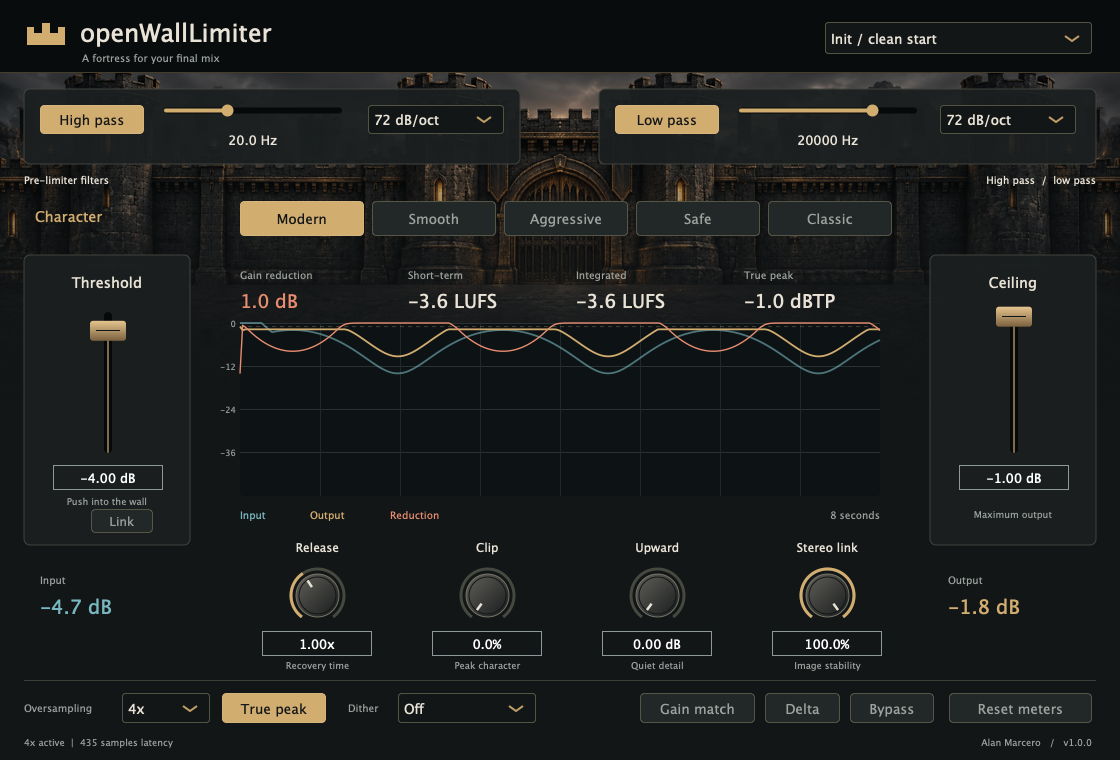
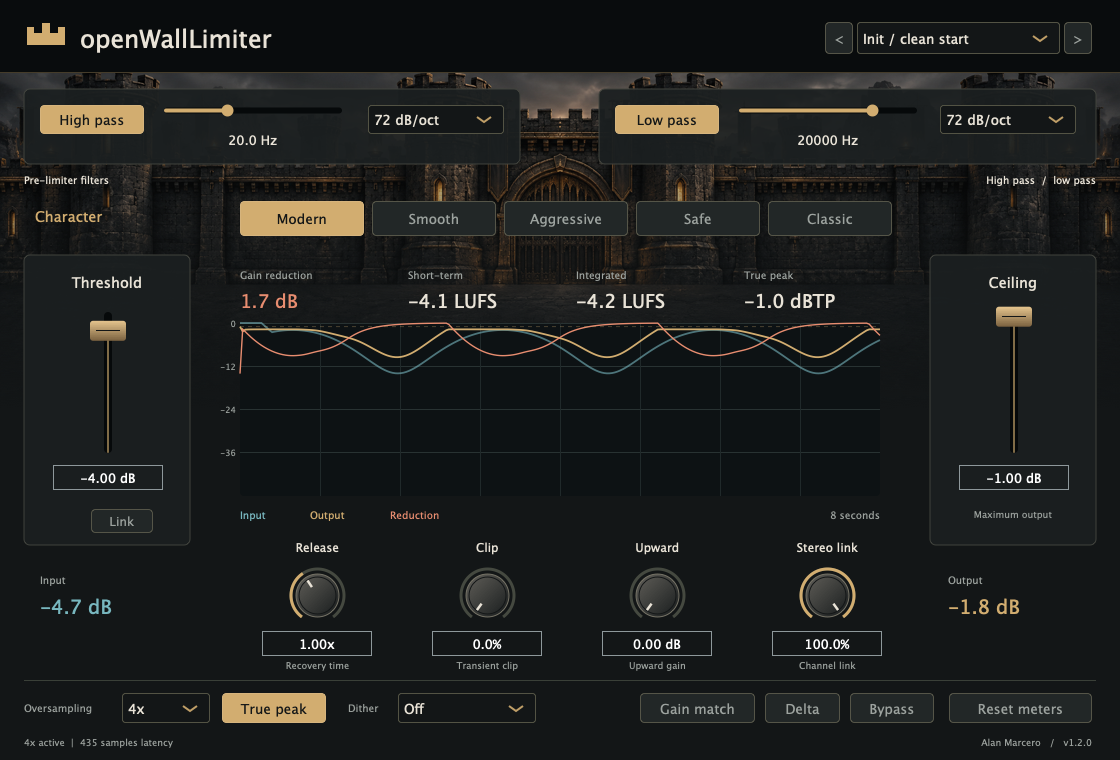
Improve limiter transient release curvature, add True Peak clip LED and header subtitle

diff --git a/Source/Plugin/PluginEditor.cpp b/Source/Plugin/PluginEditor.cpp
@@ -354,7 +354,8 @@ void WallEditor::paint(juce::Graphics &g) {
     mark.closeSubPath();
     g.setColour(brass);
     g.fillPath(mark);
-    text(g, "openWallLimiter", {80, 18, 480, 40}, 29, paper);
+    text(g, "openWallLimiter", {80, 14, 250, 32}, 27, paper);
+    text(g, "TRUE PEAK BRICKWALL LIMITER", {82, 44, 280, 18}, 10, brass);
     box(g, {24, 89, 496, 75});
     box(g, {599, 89, 497, 75});
     text(g, "Pre-limiter filters", {24, 171, 220, 18}, 12, paper);
@@ -374,6 +375,14 @@ void WallEditor::paint(juce::Graphics &g) {
         int x = 240 + int(i) * 168;
         text(g, labels[i], {x, 265, 164, 19}, 12, muted);
         text(g, values[i], {x, 286, 164, 28}, 22, i == 0 ? red : paper);
+    }
+    const float tp = wallProcessor.truePeakDb.load();
+    const bool tpClip = tp > 0.0f;
+    g.setColour(tpClip ? red : (tp > -1.0f ? brass : juce::Colour(0xff2d3a33)));
+    g.fillEllipse(886.0f, 292.0f, 8.0f, 8.0f);
+    if (tpClip) {
+        g.setColour(red.withAlpha(0.4f));
+        g.drawEllipse(884.0f, 290.0f, 12.0f, 12.0f, 1.2f);
     }
     drawGraph(g);
     const std::array<const char *, 4> names{"Release", "Clip", "Upward", "Stereo link"};

diff --git a/Source/Core/Limiter.cpp b/Source/Core/Limiter.cpp
@@ -165,7 +165,8 @@ double Limiter::releaseDb(Channel& channel, double heldDb) const noexcept {
     // The sustained part releases slowly, so the gain does not follow the waveform.
     const auto transient = std::max(0.0, release - std::max(heldDb, channel.sustainDb));
     const auto body = std::max(0.0, std::min(release, channel.sustainDb) - heldDb);
-    const auto adaptive = release - transient * releaseFast_ - body * releaseSlow_;
+    const auto fastCurve = releaseFast_ * (1.0 + 0.05 * std::min(10.0, transient));
+    const auto adaptive = release - transient * fastCurve - body * releaseSlow_;
     release = std::max(heldDb, profile.classicDbPerSecond > 0 ? release - classicStepDb_ : adaptive);
     // Sustain follows the held target, so a release tail does not count as sustained.
     channel.sustainDb += (heldDb - channel.sustainDb)
